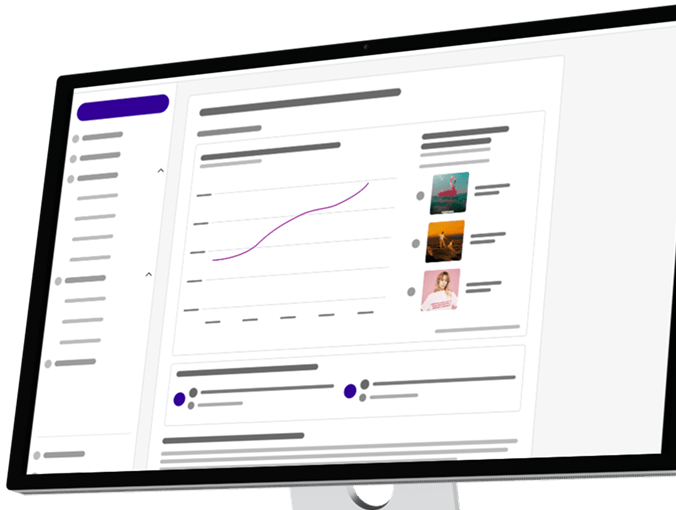
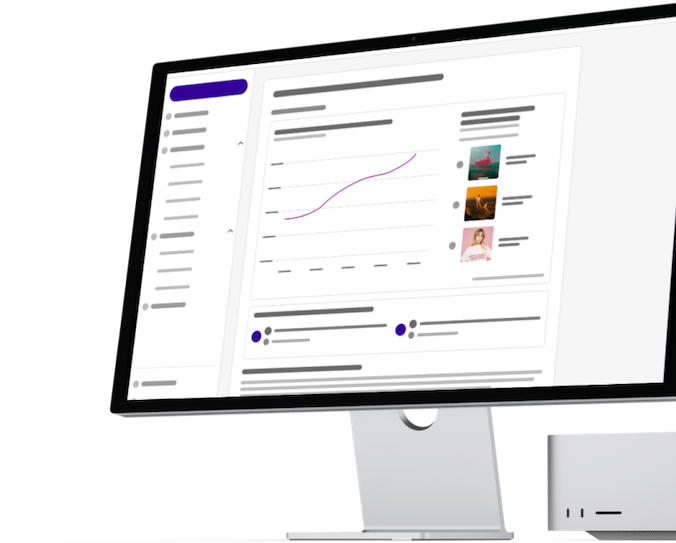
(PC-36734)[PRO] style: Graphical fixes for new register screens

diff --git a/pro/src/app/App/layout/Layout.module.scss b/pro/src/app/App/layout/Layout.module.scss
@@ -144,7 +144,7 @@ $connect-as-header-height: rem.torem(52px);
             }
           }
 
-          @media (max-height: rem.torem(740px)) {
+          @media (max-height: rem.torem(780px)) {
             margin: 4vh auto;
           }
 
@@ -172,19 +172,22 @@ $connect-as-header-height: rem.torem(52px);
         .image-laptop {
           &-macstudio {
             width: 100%;
-            bottom: 0;
+            bottom: rem.torem(64px);
             right: 0;
             position: absolute;
             max-width: rem.torem(540px);
 
-            @media (max-height: rem.torem(610px)) {
-              bottom: rem.torem(-95px);
-              max-width: rem.torem(400px);
+            @media (max-height: rem.torem(1024px)) {
+              bottom: 0;
+            }
+
+            @media (max-height: rem.torem(675px)) {
+              max-width: rem.torem(350px);
             }
           }
         }
 
-        @media (max-height: rem.torem(430px)) {
+        @media (max-height: rem.torem(500px)) {
           .image-engagements {
             margin: rem.torem(50px) auto rem.torem(25px);
           }
@@ -250,6 +253,7 @@ $connect-as-header-height: rem.torem(52px);
       max-width: rem.torem(640px);
       align-self: center;
       margin: auto;
+      padding-bottom: rem.torem(48px);
 
       /* For ultra-wide screens, makes content little bit more larger */
       @media (min-width: rem.torem(2600px)) {

diff --git a/pro/src/pages/Signup/SignupContainer/SignupContainer.module.scss b/pro/src/pages/Signup/SignupContainer/SignupContainer.module.scss
@@ -40,7 +40,6 @@
 .signup-form-row {
   display: flex;
   flex-direction: column;
-  margin-bottom: rem.torem(24px);
 
   @media (min-width: size.$tablet) {
     flex-direction: row;
